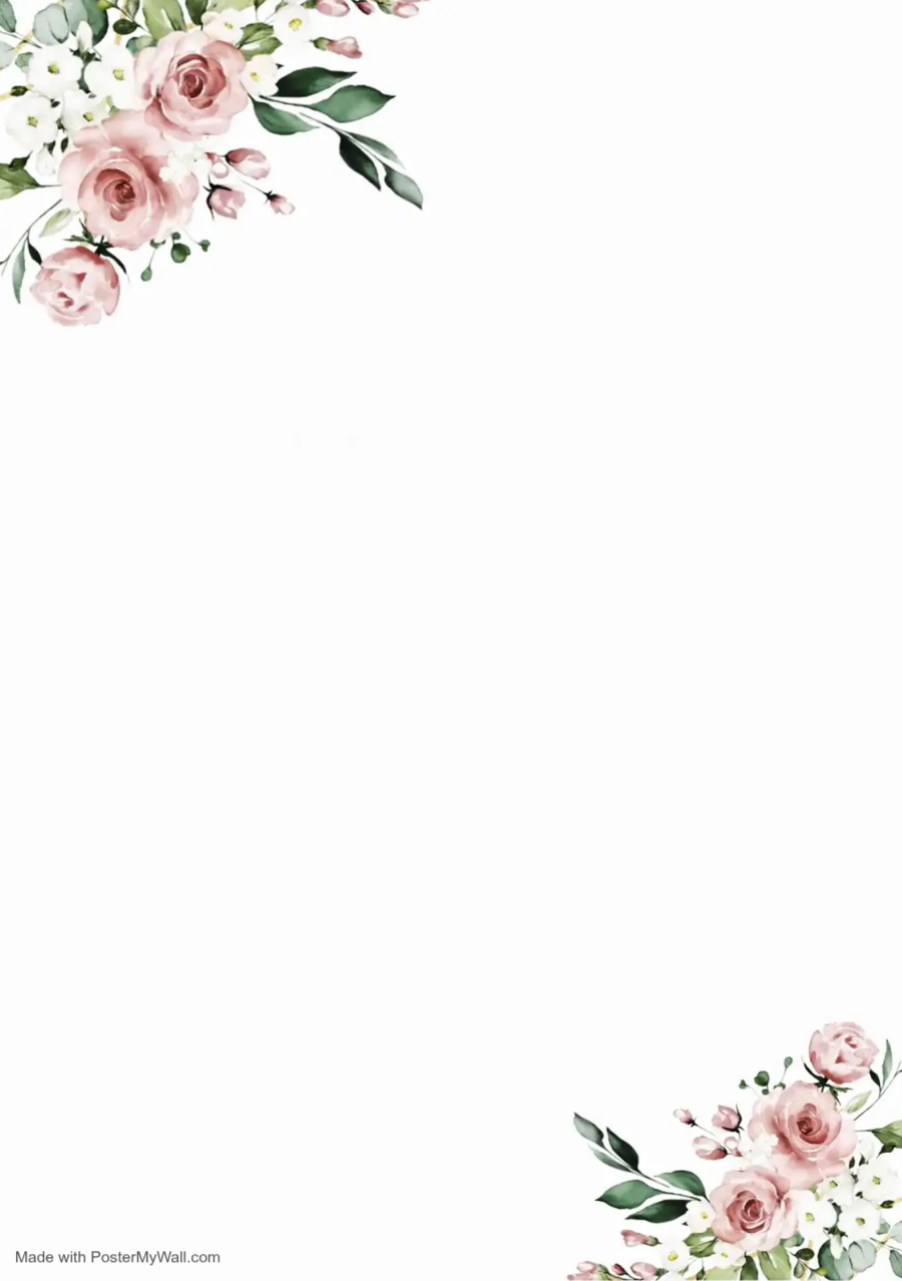
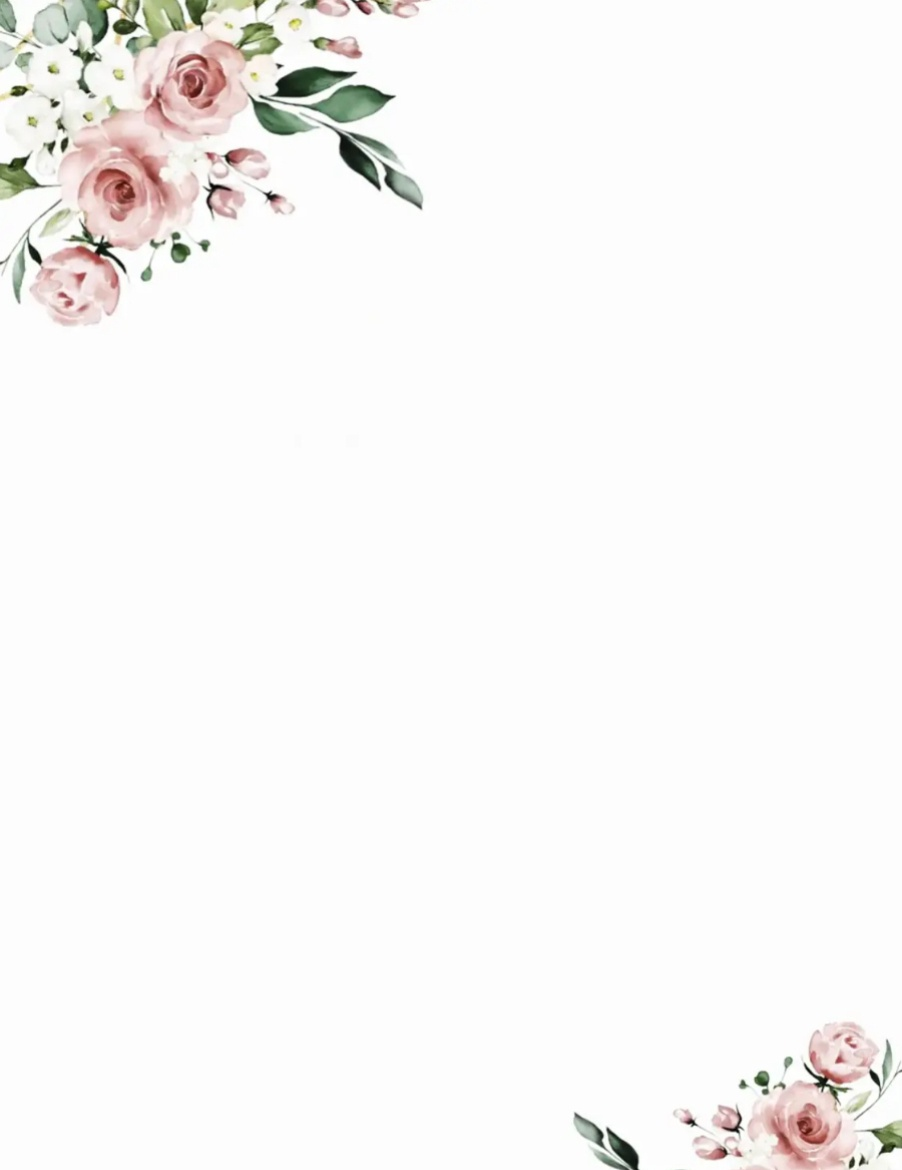
Redesign card

Changed region(s): [[0.0, 0.0, 0.4656, 0.2769], [0.6208, 0.8, 1.0, 1.0], [0.031, 0.9538, 0.2483, 0.9846]]

diff --git a/app/assets/stylesheets/application.css b/app/assets/stylesheets/application.css
@@ -1192,58 +1192,55 @@ h1, h2, h3, .display-1, .display-2, .serif {
 }
 
 /* Every line is absolute + centred */
+
+/* Every line is absolute + centred */
 .wcard-line {
   position: absolute;
-  left: 6%; right: 6%;
+  left: 4%; right: 4%;
   margin: 0;
   text-align: center;
-  line-height: 1.15;
+  line-height: 1.2;
   color: #2c1a0e;
 }
 
 /* Script font — names */
 .wcard-line--script {
   font-family: 'Great Vibes', cursive;
-  font-size: clamp(1.25rem, 4.8vw, 1.85rem);
+  font-size: 2.2rem;
   letter-spacing: 0.01em;
   color: #1a1a1a;
 }
 
-/* Small spaced caps — headings / labels */
+/* Small spaced caps — section headings */
 .wcard-line--sm {
   font-family: 'Lato', sans-serif;
-  font-size: clamp(0.34rem, 1.15vw, 0.48rem);
+  font-size: 0.72rem;
   font-weight: 400;
   letter-spacing: 0.15em;
   text-transform: uppercase;
 }
 
-/* Extra-small spaced caps — sub-labels */
+/* Extra-small spaced caps */
 .wcard-line--xs {
   font-family: 'Lato', sans-serif;
-  font-size: clamp(0.28rem, 0.92vw, 0.38rem);
+  font-size: 0.62rem;
   font-weight: 400;
-  letter-spacing: 0.14em;
+  letter-spacing: 0.13em;
   text-transform: uppercase;
 }
 
-/* Italic modifier */
+/* Italic modifier (and / labels) */
 .wcard-line--italic {
   font-style: italic;
   color: #6b4c2a;
-  letter-spacing: 0.2em;
+  letter-spacing: 0.18em;
 }
 
-/* Letter-spacing shorthand */
-.wcard-line--spaced {
-  letter-spacing: 0.14em;
-}
-
-/* Venue / detail lines — Cormorant italic */
+/* Venue / detail — Cormorant italic */
 .wcard-line--detail {
   font-family: 'Cormorant Garamond', serif;
   font-style: italic;
-  font-size: clamp(0.38rem, 1.25vw, 0.52rem);
+  font-size: 0.75rem;
   letter-spacing: 0.04em;
-  line-height: 1.3;
+  line-height: 1.35;
 }
